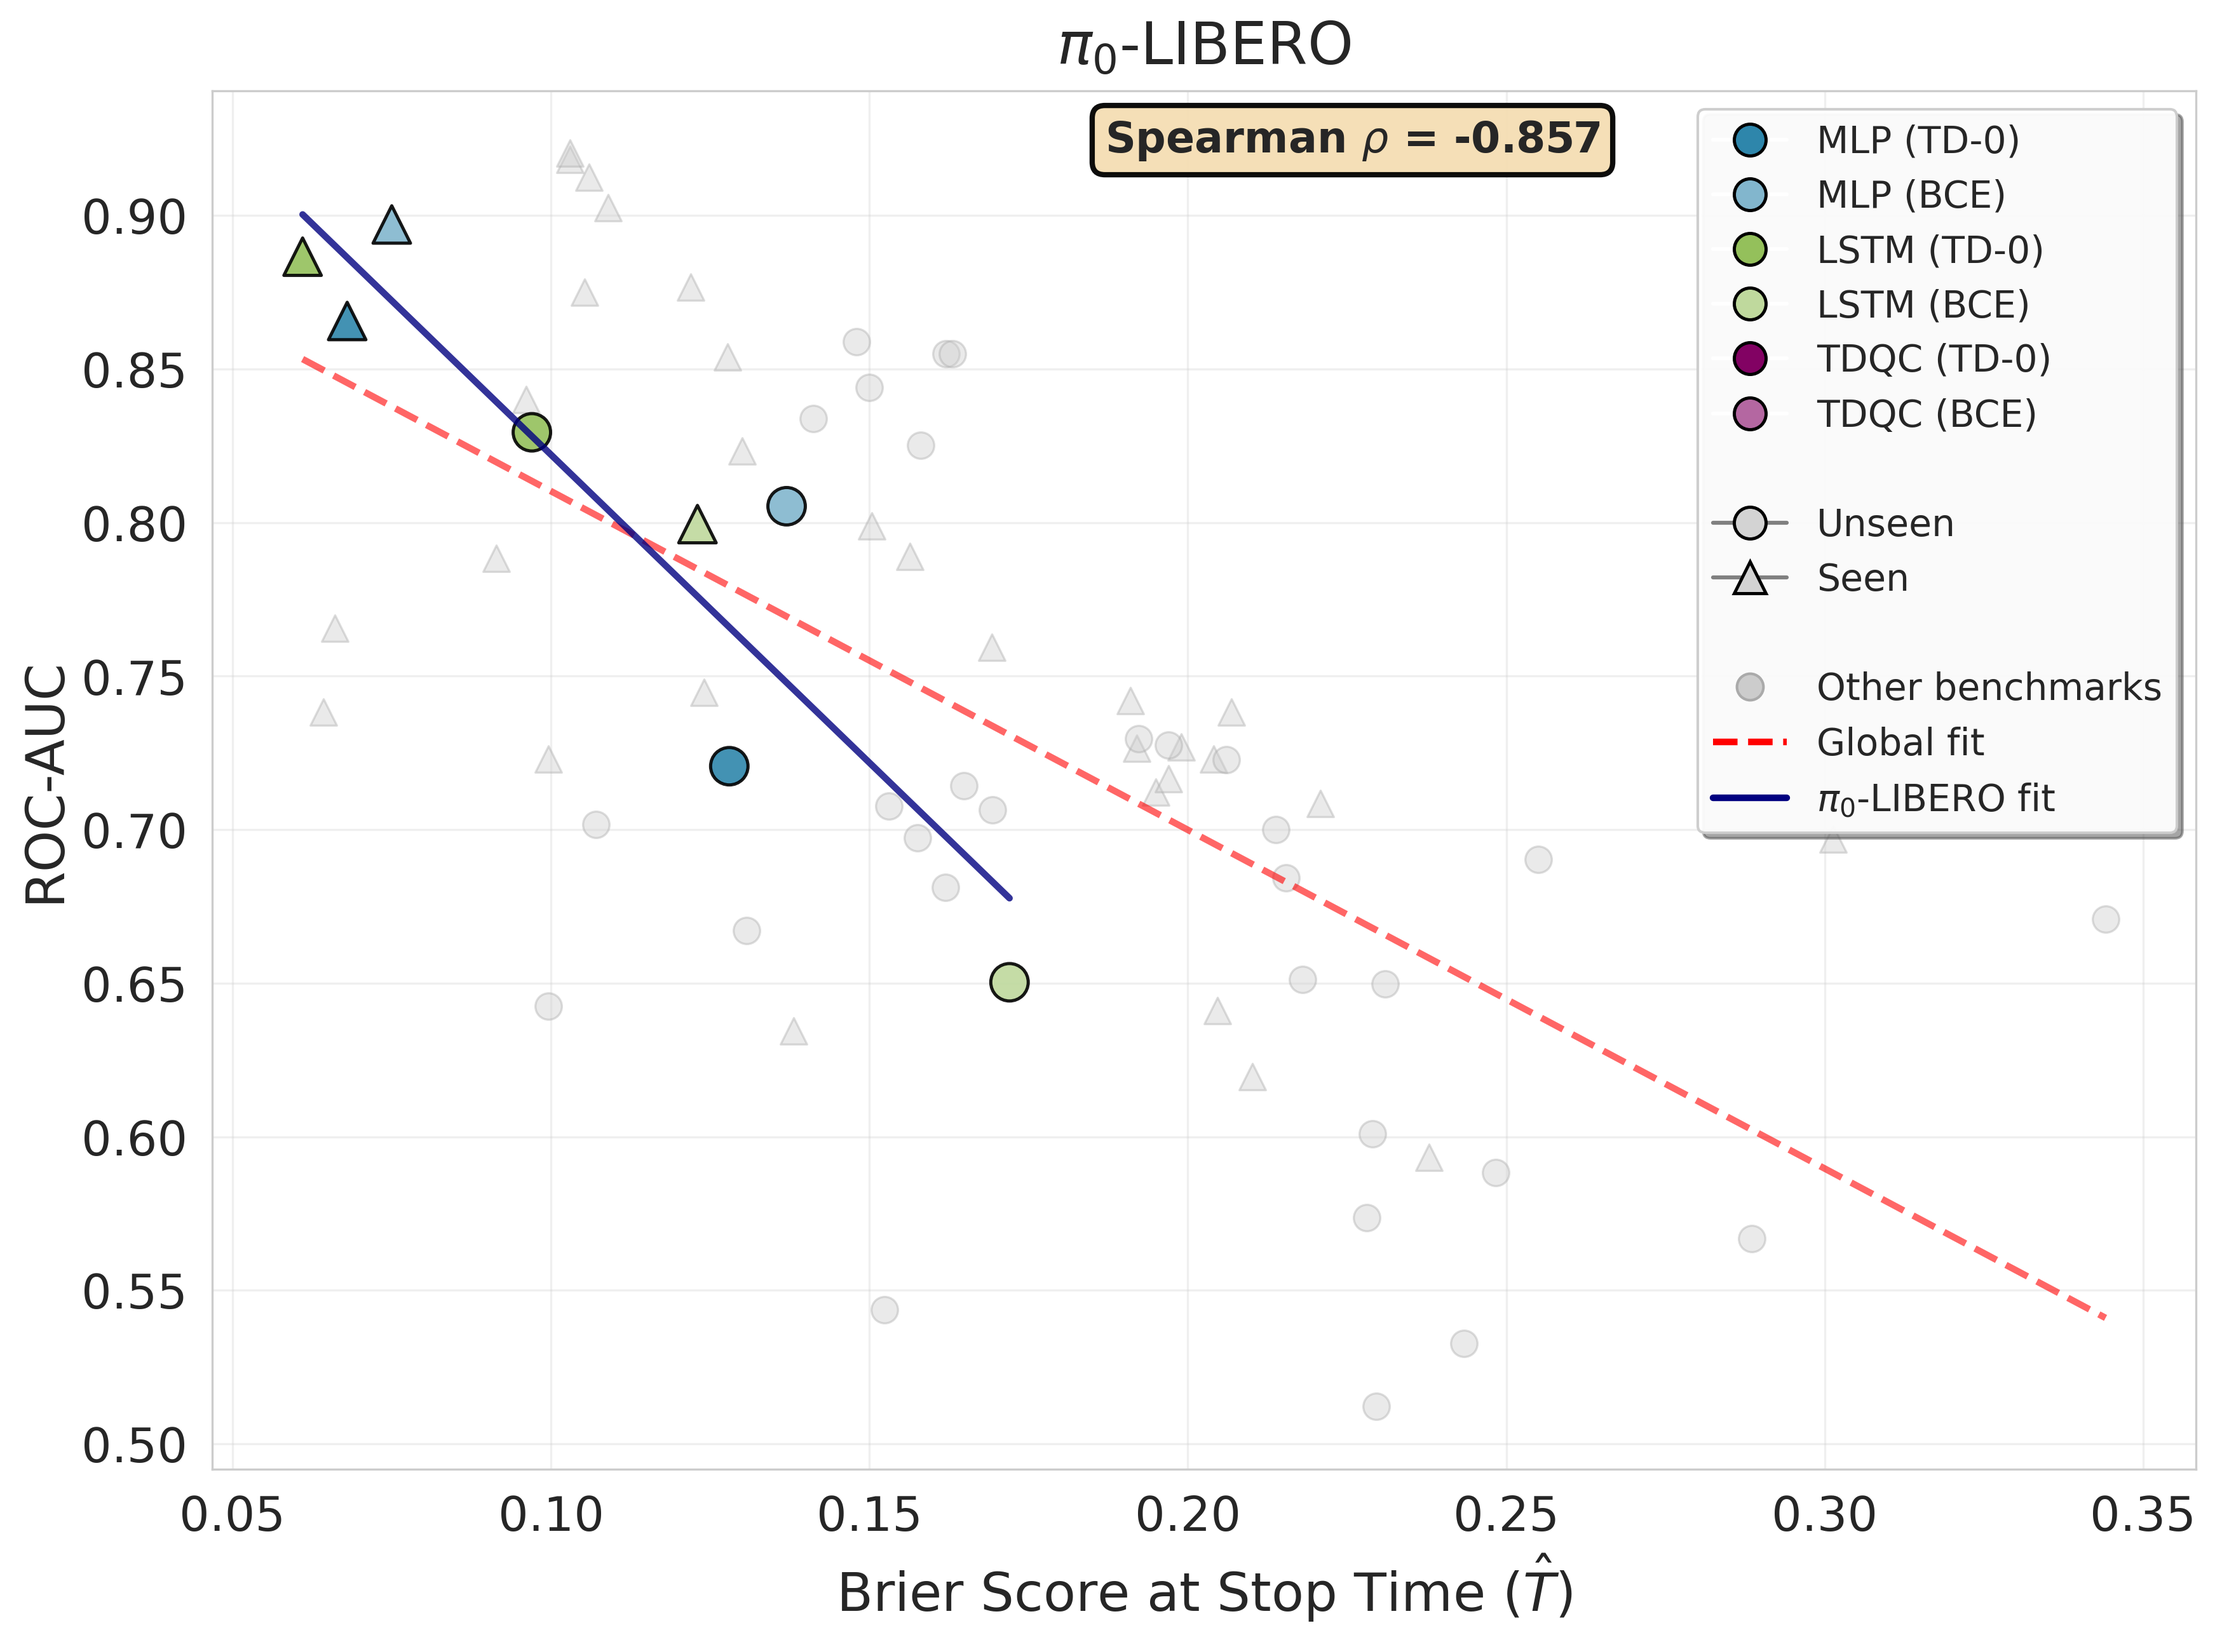
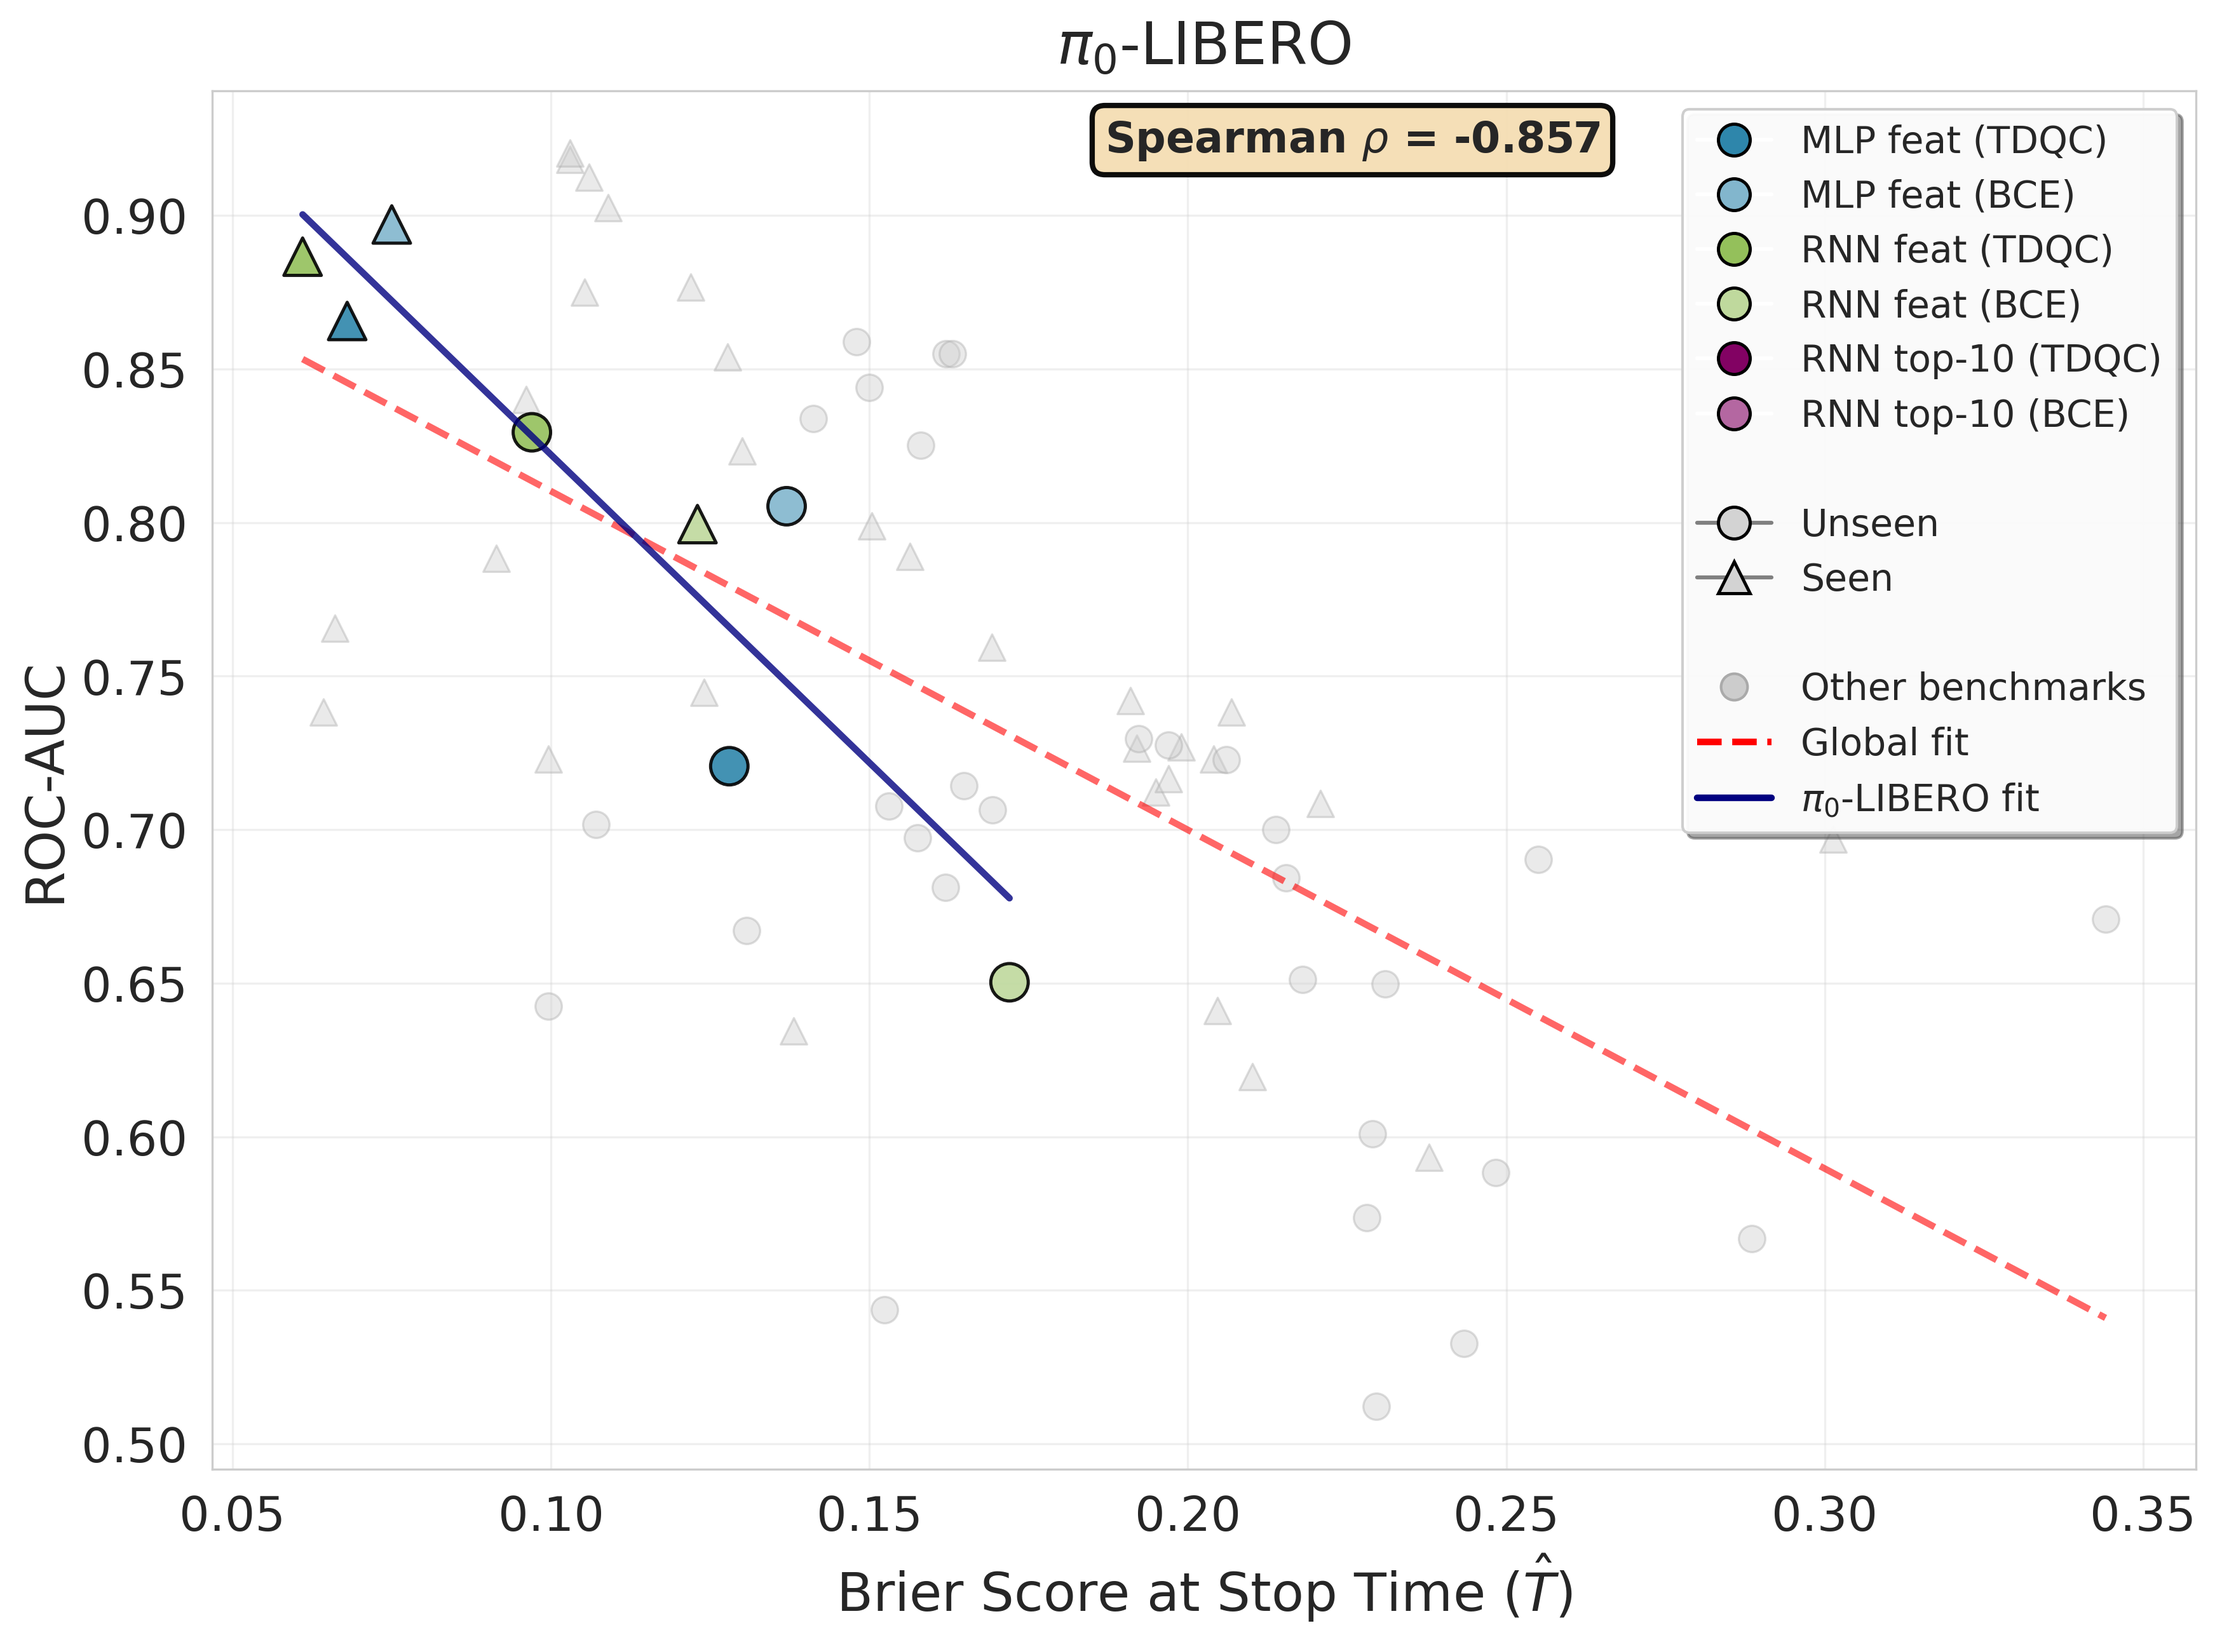
changed names...

diff --git a/index.html b/index.html
@@ -442,7 +442,7 @@
             </p>
 
             <p>
-                <span class="badge-tdqc">TDQC</span> &nbsp; Our paper further advances the research in four key areas:
+                <span class="badge-tdqc">TDQC</span> &nbsp; Our paper further advances the research in five key areas:
             </p>
 
             <div class="row g-3 my-3">
@@ -468,6 +468,12 @@
                     <div class="method-card">
                         <h5>Empirical Strength</h5>
                         <p class="mb-0">TD-based losses are essential for state-of-the-art early detection on LIBERO with OpenVLA, &pi;&#x2080;, and &pi;&#x2080;-FAST, and on a Franka real-robot dataset collected with &pi;&#x2080;-FAST.</p>
+                    </div>
+                </div>
+                <div class="col-md-6">
+                    <div class="method-card">
+                        <h5>Policy Improvement as a By-Product</h5>
+                        <p class="mb-0">The TDQC value predictor can guide action selection within a set of actions sampled from the policy, yielding a simple recipe that brings a <strong>15% increase in success rate</strong> of OpenVLA on the LIBERO benchmark.</p>
                     </div>
                 </div>
             </div>
@@ -677,8 +683,8 @@
                   </tr>
                   <!-- Learned Baselines -->
                   <tr class="group-sep">
-                    <td rowspan="4" class="group-cell">Learned Baselines</td>
-                    <td class="method-cell"><em>SAFE-LSTM</em></td>
+                    <td rowspan="4" class="group-cell">Learned Baselines<br>(white-box)</td>
+                    <td class="method-cell"><em>SAFE-RNN</em></td>
                     <td>0.204</td><td>0.255</td>
                     <td>0.169</td><td>0.213</td>
                     <td>0.124</td><td>0.162</td>
@@ -687,7 +693,7 @@
                     <td>0.123</td><td>0.172</td>
                   </tr>
                   <tr class="ours-row">
-                    <td class="method-cell"><em>SAFE-LSTM-TD0 (Ours)</em></td>
+                    <td class="method-cell"><em>SAFE-RNN-TDQC (Ours)</em></td>
                     <td>0.197</td><td>0.218</td>
                     <td><span class="best-result">0.096</span></td><td><span class="best-result">0.153</span></td>
                     <td><span class="best-result">0.064</span></td><td><span class="best-result">0.100</span></td>
@@ -705,7 +711,7 @@
                     <td>0.075</td><td>0.137</td>
                   </tr>
                   <tr class="ours-row">
-                    <td class="method-cell"><em>SAFE-MLP-TD0 (Ours)</em></td>
+                    <td class="method-cell"><em>SAFE-MLP-TDQC (Ours)</em></td>
                     <td>0.195</td><td>0.229</td>
                     <td>0.130</td><td>0.169</td>
                     <td>0.066</td><td>0.131</td>
@@ -715,8 +721,8 @@
                   </tr>
                   <!-- TDQC -->
                   <tr class="ours-row group-sep">
-                    <td rowspan="2" class="group-cell">TDQC</td>
-                    <td class="method-cell"><em>TDQC-BCE (Ours)</em></td>
+                    <td rowspan="2" class="group-cell">TDQC (black box)</td>
+                    <td class="method-cell"><em>RNN-BCE (Ours)</em></td>
                     <td>0.199</td><td>0.206</td>
                     <td>0.301</td><td>0.344</td>
                     <td>0.138</td><td>0.152</td>
@@ -725,7 +731,7 @@
                     <td>&mdash;</td><td>&mdash;</td>
                   </tr>
                   <tr class="ours-row">
-                    <td class="method-cell"><em>TDQC-TD0 (Ours)</em></td>
+                    <td class="method-cell"><em>RNN-TDQC (Ours)</em></td>
                     <td><span class="best-result">0.191</span></td><td><span class="best-result">0.197</span></td>
                     <td>0.156</td><td>0.192</td>
                     <td>0.100</td><td>0.107</td>
@@ -824,8 +830,8 @@
                   </tr>
                   <!-- Learned Baselines -->
                   <tr class="group-sep">
-                    <td rowspan="5" class="group-cell">Learned Baselines</td>
-                    <td class="method-cell"><em>SAFE-LSTM</em></td>
+                    <td rowspan="5" class="group-cell">Learned Baselines<br>(white-box)</td>
+                    <td class="method-cell"><em>SAFE-RNN</em></td>
                     <td>72.30</td><td>69.04</td>
                     <td>75.95</td><td>70.00</td>
                     <td>74.48</td><td>68.13</td>
@@ -834,7 +840,7 @@
                     <td>79.96</td><td>65.03</td>
                   </tr>
                   <tr class="ours-row">
-                    <td class="method-cell"><em>SAFE-LSTM-TD0 (Ours)</em></td>
+                    <td class="method-cell"><em>SAFE-RNN-TDQC (Ours)</em></td>
                     <td>71.67</td><td>65.12</td>
                     <td>84.01</td><td>70.76</td>
                     <td>73.83</td><td>64.25</td>
@@ -861,7 +867,7 @@
                     <td><span class="best-result">89.71</span></td><td>80.53</td>
                   </tr>
                   <tr class="ours-row">
-                    <td class="method-cell"><em>SAFE-MLP-TD0 (Ours)</em></td>
+                    <td class="method-cell"><em>SAFE-MLP-TDQC (Ours)</em></td>
                     <td>71.22</td><td>60.09</td>
                     <td>82.33</td><td>70.64</td>
                     <td>76.55</td><td>66.71</td>
@@ -869,10 +875,10 @@
                     <td>61.95</td><td>51.22</td>
                     <td>86.57</td><td>72.07</td>
                   </tr>
-                  <!-- TDQC -->
+                  <!-- TDQC (black box) -->
                   <tr class="ours-row group-sep">
-                    <td rowspan="2" class="group-cell">TDQC</td>
-                    <td class="method-cell"><em>TDQC BCE (Ours)</em></td>
+                    <td rowspan="2" class="group-cell">TDQC (black box)</td>
+                    <td class="method-cell"><em>RNN-BCE (Ours)</em></td>
                     <td>72.70</td><td>72.28</td>
                     <td>69.69</td><td>67.09</td>
                     <td>63.44</td><td>54.37</td>
@@ -881,7 +887,7 @@
                     <td>&mdash;</td><td>&mdash;</td>
                   </tr>
                   <tr class="ours-row">
-                    <td class="method-cell"><em>TDQC TD0 (Ours)</em></td>
+                    <td class="method-cell"><em>RNN-TDQC (Ours)</em></td>
                     <td><span class="best-result">74.20</span></td><td><span class="best-result">72.72</span></td>
                     <td>78.90</td><td>72.97</td>
                     <td>72.30</td><td><span class="best-result">70.17</span></td>
